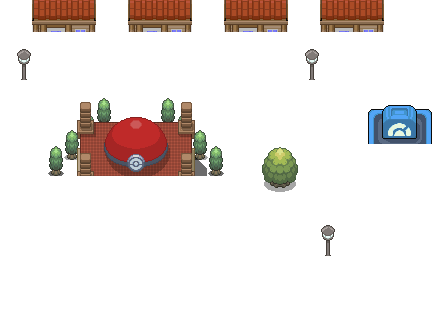
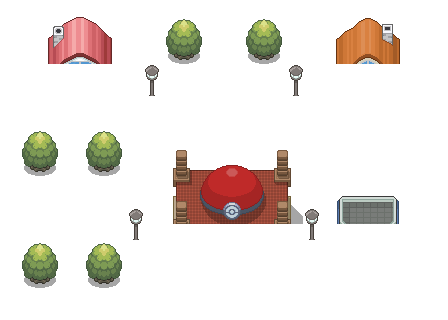
Replace Valpierre scenery with the authored ville_lac_arene map

diff --git a/src/data/dirtGround.js b/src/data/dirtGround.js
@@ -550,28 +550,6 @@ export default {
       "0011111111011111111111111100",
       "0000000000000000000000000000",
       "0000000000000000000000000000"
-    ],
-    "ville_safe1": [
-      "0000001000001100001000001000",
-      "0000001000001100001000001000",
-      "0000000000000000000000000000",
-      "1111111111111111111111111111",
-      "1111111111111111111111111111",
-      "1011111111111111111011111111",
-      "0111111111111111111111111111",
-      "0000000111000000011111111111",
-      "0000001111100000111111100001",
-      "0000011111110000111111101101",
-      "0100111111111000111111101101",
-      "0000101111101000101111001000",
-      "0110100010001000111111001010",
-      "0100011111110000110111001010",
-      "0110001111100000111111001000",
-      "0110000111000001111111111111",
-      "0011000010000011111101000000",
-      "0111110010101111111111011111",
-      "0111111111111111111111011111",
-      "0000000000000000000000011111"
     ]
   },
   "colors": [

diff --git a/src/data/worldGrass.js b/src/data/worldGrass.js
@@ -5567,11 +5567,5 @@ export default {
       249,
       3225
     ]
-  ],
-  "ville_safe1": [
-    [
-      408,
-      2804
-    ]
   ]
 };
